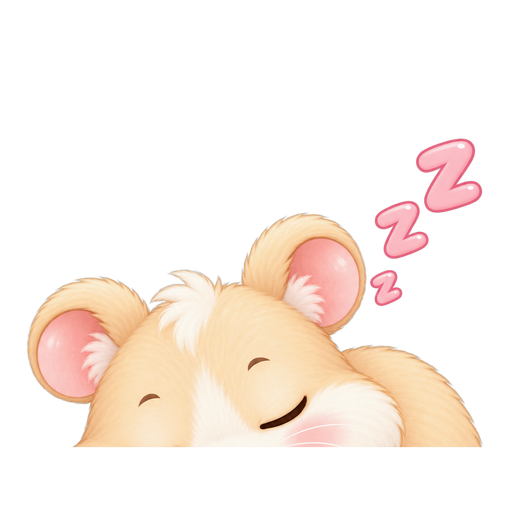
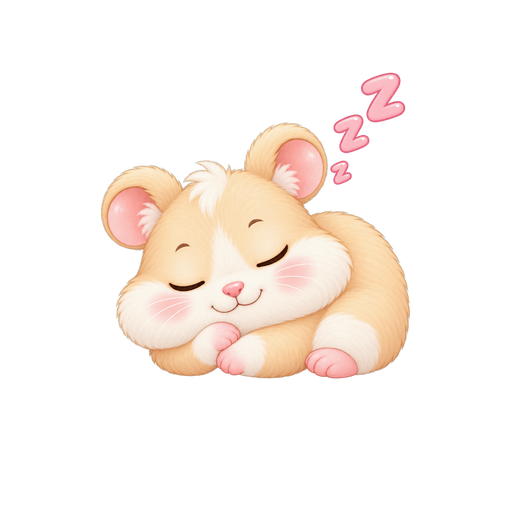
카카오 로그인 제거 (개인 개발자 이메일 스코프 제한)

diff --git a/web/src/screens/LoginScreen.tsx b/web/src/screens/LoginScreen.tsx
@@ -7,7 +7,6 @@ import {
   enterGuestMode,
   resendSignupConfirmation,
   signInWithGoogle,
-  signInWithKakao,
   signInWithMagicLink,
   signInWithPassword,
   signUpWithPassword,
@@ -97,16 +96,6 @@ export function LoginScreen() {
       await signInWithGoogle();
     } catch (e) {
       toast.show(e instanceof Error ? e.message : 'Google 로그인 실패');
-      setBusy(false);
-    }
-  };
-
-  const handleKakao = async () => {
-    setBusy(true);
-    try {
-      await signInWithKakao();
-    } catch (e) {
-      toast.show(e instanceof Error ? e.message : 'Kakao 로그인 실패');
       setBusy(false);
     }
   };
@@ -268,15 +257,6 @@ export function LoginScreen() {
           Google로 계속하기
         </button>
 
-        <button
-          onClick={handleKakao}
-          disabled={busy}
-          className="w-full flex items-center justify-center gap-2 bg-[#FEE500] rounded-2xl py-3 px-5 text-[14px] font-semibold text-[#191919] hover:brightness-95 disabled:opacity-50 transition"
-        >
-          <KakaoIcon />
-          카카오로 계속하기
-        </button>
-
         <button className="btn-outline w-full" onClick={handleMagicLink} disabled={busy}>
           이메일 링크로 로그인 (비밀번호 없이)
         </button>
@@ -292,14 +272,6 @@ export function LoginScreen() {
         </p>
       </div>
     </div>
-  );
-}
-
-function KakaoIcon() {
-  return (
-    <svg width={18} height={18} viewBox="0 0 24 24" aria-hidden fill="#191919">
-      <path d="M12 3C6.48 3 2 6.48 2 10.8c0 2.7 1.8 5.1 4.5 6.5-.2.7-.7 2.6-.8 3-.1.4.2.4.4.3.1-.1 2.6-1.8 3.7-2.5.7.1 1.4.2 2.2.2 5.52 0 10-3.48 10-7.8C22 6.48 17.52 3 12 3z" />
-    </svg>
   );
 }
 

diff --git a/web/src/lib/auth.ts b/web/src/lib/auth.ts
@@ -29,20 +29,6 @@ export async function signInWithGoogle(): Promise<void> {
   if (error) throw error;
 }
 
-/**
- * Kakao OAuth 로그인. Supabase 프로젝트에 Kakao Provider 활성화 필요.
- * Kakao Developers 에서 앱 등록 + REST API 키 발급이 선행되어야 함.
- */
-export async function signInWithKakao(): Promise<void> {
-  const { error } = await supabase.auth.signInWithOAuth({
-    provider: 'kakao',
-    options: {
-      redirectTo: window.location.origin,
-    },
-  });
-  if (error) throw error;
-}
-
 export async function signInWithMagicLink(email: string): Promise<void> {
   const { error } = await supabase.auth.signInWithOtp({
     email,
